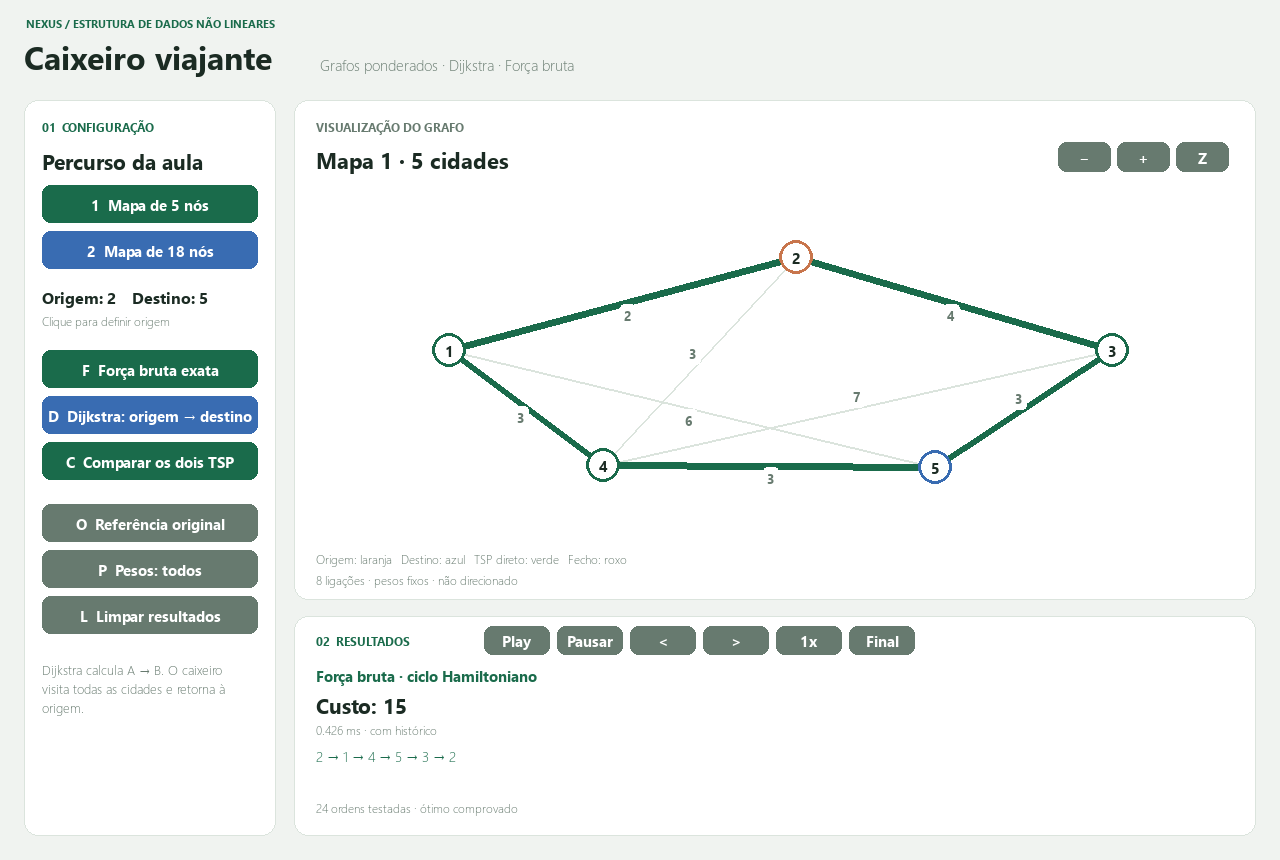
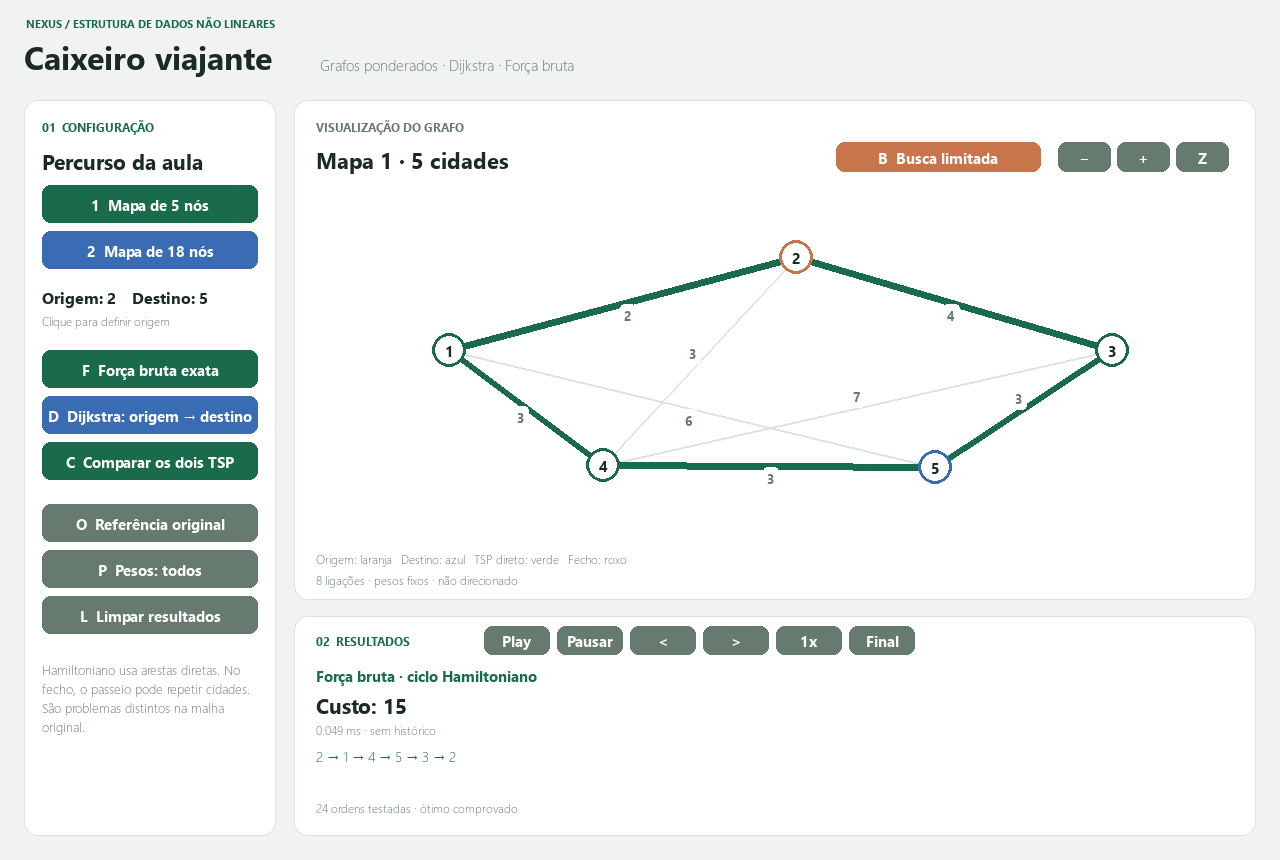
feat(TSP-020): limita branch-and-bound e explicita provas e pendência dos dados

Changed region(s): [[0.0312, 0.7558, 0.1875, 0.8465], [0.6562, 0.1512, 0.8125, 0.2116], [0.3125, 0.8465, 0.3438, 0.8767]]

diff --git a/caixeiro/tsp_ui.py b/caixeiro/tsp_ui.py
@@ -5,6 +5,7 @@ from time import perf_counter
 import pygame
 from tsp_core import carregar_mapa, dijkstra, tsp_forca_bruta, tsp_dijkstra, ErroGrafo, LimiteTSPError
 from reprodutor import Reprodutor
+from busca_limitada import tsp_branch_bound
 
 
 ROOT = Path(__file__).resolve().parent
@@ -17,7 +18,7 @@ GREEN = (26, 107, 75)
 BLUE = (57, 108, 178)
 ORANGE = (200, 117, 76)
 PURPLE = (128, 86, 166)
-CORES_METODOS = {"forca": GREEN, "dijkstra": BLUE, "fecho": PURPLE}
+CORES_METODOS = {"forca": GREEN, "dijkstra": BLUE, "fecho": PURPLE, "limitada": ORANGE}
 
 
 class Aplicacao:
@@ -86,7 +87,7 @@ class Aplicacao:
             return
         try:
             self.mapa.exigir_validado()
-            if metodo != "dijkstra" and len(self.mapa.nos) > 9:
+            if metodo not in ("dijkstra", "limitada") and len(self.mapa.nos) > 9:
                 raise LimiteTSPError("Busca didática limitada a 9 nós.")
         except ErroGrafo as erro:
             self.status = str(erro)
@@ -104,11 +105,14 @@ class Aplicacao:
                     funcao, args = dijkstra, (mapa, origem, destino)
                 elif nome == "forca":
                     funcao, args = tsp_forca_bruta, (mapa, origem)
+                elif nome == "limitada":
+                    funcao, args = tsp_branch_bound, (mapa, origem)
                 else:
                     funcao, args = tsp_dijkstra, (mapa, origem)
                 r = funcao(*args)
                 tempos[nome] = (perf_counter() - inicio) * 1000
-                funcao(*args, eventos=eventos)
+                if nome != "limitada":
+                    funcao(*args, eventos=eventos)
                 resultados[nome] = r
             return resultados, tempos, eventos
 
@@ -224,6 +228,7 @@ class Aplicacao:
         self.painel(self.mapa_rect)
         self.texto("VISUALIZAÇÃO DO GRAFO", (self.mapa_rect.x + 22, 119), 12, MUTED, True)
         self.texto(f"Mapa {self.indice_mapa + 1} · {len(self.mapa.nos)} cidades", (self.mapa_rect.x + 22, 145), 22, INK, True)
+        self.botao("limitada", "B  Busca limitada", (self.mapa_rect.right - 420, 142, 205, 30), ORANGE, self.futuro is None)
         for i, (chave, titulo) in enumerate((("zoom_menos", "−"), ("zoom_mais", "+"), ("reset", "Z"))):
             self.botao(chave, titulo, (self.mapa_rect.right - 198 + i * 59, 142, 53, 30), MUTED)
         clip_anterior = self.tela.get_clip()
@@ -307,7 +312,7 @@ class Aplicacao:
             self.linhas(self.status, (x + 22, y + 55), self.resultados_rect.w - 44, 15, max_linhas=6)
             return
         largura = (self.resultados_rect.w - 56) // max(1, len(self.resultados))
-        titulos = {"forca": "Força bruta · ciclo Hamiltoniano", "dijkstra": "Dijkstra · caminho A → B",
+        titulos = {"forca": "Força bruta · ciclo Hamiltoniano", "dijkstra": "Dijkstra · caminho A → B", "limitada": "Branch-and-bound · até 18 nós",
                    "fecho": "Dijkstra + TSP · passeio fechado"}
         for indice, (nome, resultado) in enumerate(self.resultados.items()):
             cx = x + 22 + indice * (largura + 12)
@@ -320,6 +325,8 @@ class Aplicacao:
             self.linhas(rota, (cx, y + 130), largura, 14, cor, max_linhas=2)
             if hasattr(resultado, "estados_testados"):
                 self.texto(f"{resultado.estados_testados} ordens testadas · ótimo comprovado", (cx, y + 184), 12, MUTED)
+            elif hasattr(resultado, "estado"):
+                self.texto(f"{resultado.nos_expandidos} estados · {resultado.estado}", (cx, y + 184), 12, MUTED)
 
     def desenhar(self):
         self.botoes.clear()
@@ -340,7 +347,7 @@ class Aplicacao:
             self.layout()
         elif evento.type == pygame.KEYDOWN:
             atalhos = {pygame.K_1: "mapa1", pygame.K_2: "mapa2", pygame.K_o: "original", pygame.K_p: "pesos",
-                       pygame.K_f: "forca", pygame.K_d: "dijkstra", pygame.K_c: "comparar", pygame.K_l: "limpar", pygame.K_z: "reset"}
+                       pygame.K_f: "forca", pygame.K_d: "dijkstra", pygame.K_c: "comparar", pygame.K_l: "limpar", pygame.K_z: "reset", pygame.K_b: "limitada"}
             if evento.key in atalhos:
                 self.acao(atalhos[evento.key])
         elif evento.type == pygame.MOUSEBUTTONDOWN and evento.button == 1:
@@ -380,7 +387,7 @@ class Aplicacao:
         elif chave == "reset":
             self.zoom = 1
             self.pan.update(0, 0)
-        elif chave in ("forca", "dijkstra", "comparar"):
+        elif chave in ("forca", "dijkstra", "comparar", "limitada"):
             self.iniciar(chave)
         elif chave == "limpar":
             self.limpar()

diff --git a/caixeiro/busca_limitada.py b/caixeiro/busca_limitada.py
@@ -1,0 +1,89 @@
+"""TSP Hamiltoniano com branch-and-bound e orçamento explícito de execução."""
+from dataclasses import dataclass
+from functools import lru_cache
+import math
+from time import perf_counter
+from tsp_core import Peso, _validar_tsp
+
+
+@dataclass(frozen=True, slots=True)
+class ResultadoBusca:
+    caminho: tuple[int, ...]
+    custo: Peso
+    nos_expandidos: int
+    otimo: bool
+    estado: str
+    tempo_ms: float
+
+    @property
+    def ordem(self):
+        return self.caminho
+
+
+def tsp_branch_bound(grafo, origem, *, limite_segundos=2.0, max_estados=200_000):
+    """Máximo 18 nós. Nunca chama o enumerador de permutações.
+
+    Limite inferior: MST dos não visitados mais uma ligação de cada ponta.
+    É admissível porque toda conclusão contém um caminho entre os restantes
+    e precisa conectar a ponta atual e a origem. Poda não elimina um ótimo.
+    Tempo/estados limitam trabalho, sem declarar ótimo se houver corte.
+    """
+    _validar_tsp(grafo, origem, limite=18)
+    if type(max_estados) is not int or max_estados < 1:
+        raise ValueError("max_estados deve ser inteiro positivo")
+    if type(limite_segundos) not in (float, int) or not math.isfinite(limite_segundos) or limite_segundos <= 0:
+        raise ValueError("limite_segundos deve ser finito e positivo")
+    inicio = perf_counter()
+    prazo = inicio + limite_segundos
+    adj = grafo.adjacencia()
+    ids = frozenset(grafo.ids)
+    melhor, melhor_custo = (), math.inf
+    estados, cortado = 0, False
+
+    @lru_cache(maxsize=8192)
+    def mst(restantes):
+        if len(restantes) < 2:
+            return 0
+        dentro = {restantes[0]}
+        fora = set(restantes[1:])
+        total = 0
+        while fora:
+            escolhas = ((adj[a][b], b) for a in dentro for b in fora if b in adj[a])
+            peso, proximo = min(escolhas, default=(math.inf, None))
+            if proximo is None:
+                return math.inf
+            total += peso
+            dentro.add(proximo)
+            fora.remove(proximo)
+        return total
+
+    def visitar(rota, usados, custo):
+        nonlocal melhor, melhor_custo, estados, cortado
+        if cortado:
+            return
+        if estados >= max_estados or perf_counter() >= prazo:
+            cortado = True
+            return
+        estados += 1
+        atual = rota[-1]
+        restantes = ids - usados
+        if not restantes:
+            if len(ids) == 1:
+                melhor, melhor_custo = rota, 0
+            elif origem in adj[atual] and custo + adj[atual][origem] < melhor_custo:
+                melhor, melhor_custo = (*rota, origem), custo + adj[atual][origem]
+            return
+        entrada = min((adj[atual][i] for i in restantes if i in adj[atual]), default=math.inf)
+        saida = min((adj[origem][i] for i in restantes if i in adj[origem]), default=math.inf)
+        inferior = custo + entrada + saida + mst(tuple(sorted(restantes)))
+        if inferior >= melhor_custo:
+            return
+        for proximo in sorted((i for i in restantes if i in adj[atual]), key=lambda i: (adj[atual][i], i)):
+            visitar((*rota, proximo), usados | {proximo}, custo + adj[atual][proximo])
+            if cortado:
+                return
+
+    visitar((origem,), frozenset({origem}), 0)
+    estado = ("melhor_conhecida" if melhor else "limite_sem_solucao") if cortado else (
+        "otimo_comprovado" if melhor else "sem_ciclo_comprovado")
+    return ResultadoBusca(melhor, melhor_custo, estados, not cortado, estado, (perf_counter() - inicio) * 1000)

diff --git a/caixeiro/tests/test_busca_limitada.py b/caixeiro/tests/test_busca_limitada.py
@@ -1,0 +1,54 @@
+import math
+from pathlib import Path
+import unittest
+from test_tsp import exemplo
+from busca_limitada import tsp_branch_bound
+from tsp_core import carregar_mapa, tsp_forca_bruta, MapaNaoValidadoError
+
+
+class BuscaLimitadaTests(unittest.TestCase):
+    def test_concorda_com_forca_bruta_em_todas_as_origens(self):
+        mapa = carregar_mapa(Path(__file__).resolve().parents[1] / "data/mapa_05.json")
+        for origem in mapa.ids:
+            r = tsp_branch_bound(mapa, origem)
+            self.assertEqual(r.custo, tsp_forca_bruta(mapa, origem).custo)
+            self.assertTrue(r.otimo)
+            self.assertEqual(r.estado, "otimo_comprovado")
+
+    def test_instancia_sintetica_de_18_nos_termina_com_prova(self):
+        # Instância de teste, não é o mapa da aula nem substitui seu peso ausente.
+        grafo = exemplo(range(1, 19), [(i, i + 1, 1) for i in range(1, 18)] + [(18, 1, 1)])
+        r = tsp_branch_bound(grafo, 1, limite_segundos=1, max_estados=1000)
+        self.assertEqual(r.custo, 18)
+        self.assertTrue(r.otimo)
+        self.assertLess(r.nos_expandidos, 1000)
+
+    def test_orcamento_nao_declara_inexistencia_ou_otimo(self):
+        grafo = exemplo(range(1, 19), [(i, i + 1, 1) for i in range(1, 18)] + [(18, 1, 1)])
+        r = tsp_branch_bound(grafo, 1, max_estados=1)
+        self.assertFalse(r.otimo)
+        self.assertEqual(r.estado, "limite_sem_solucao")
+        r = tsp_branch_bound(grafo, 1, max_estados=18)
+        self.assertEqual(r.custo, 18)
+        self.assertFalse(r.otimo)
+        self.assertEqual(r.estado, "melhor_conhecida")
+
+    def test_prova_de_ausencia_e_cidade_unica(self):
+        r = tsp_branch_bound(exemplo((1, 2, 3), ((1, 2, 1),)), 1)
+        self.assertEqual(r.estado, "sem_ciclo_comprovado")
+        self.assertEqual(r.custo, math.inf)
+        self.assertTrue(r.otimo)
+        self.assertEqual(tsp_branch_bound(exemplo((7,), ()), 7).custo, 0)
+
+    def test_mapa_real_18_continua_bloqueado(self):
+        mapa = carregar_mapa(Path(__file__).resolve().parents[1] / "data/mapa_18.json")
+        with self.assertRaises(MapaNaoValidadoError):
+            tsp_branch_bound(mapa, 1)
+
+    def test_limites_invalidos(self):
+        grafo = exemplo((1,), ())
+        for limite in (0, -1, True, math.inf):
+            with self.assertRaises(ValueError):
+                tsp_branch_bound(grafo, 1, limite_segundos=limite)
+        with self.assertRaises(ValueError):
+            tsp_branch_bound(grafo, 1, max_estados=True)

diff --git a/caixeiro/scripts/smoke_pygame.py b/caixeiro/scripts/smoke_pygame.py
@@ -70,6 +70,10 @@ def main():
         aguardar()
         assert app.resultados["forca"].custo == 15
         registrar("Força bruta por botão: custo 15", "forca_bruta.png")
+        clicar("limitada")
+        aguardar()
+        assert app.resultados["limitada"].custo == 15 and app.resultados["limitada"].otimo
+        registrar("Busca limitada por botão: ótimo comprovado 15", "busca_limitada.png")
         tecla(pygame.K_1)
         tecla(pygame.K_c)
         aguardar()

diff --git a/caixeiro/tests/test_ui.py b/caixeiro/tests/test_ui.py
@@ -60,6 +60,10 @@ class InterfaceTests(unittest.TestCase):
         a.acao("reproduzir")
         a.atualizar(1)
         self.assertIsNotNone(a.player.passo)
+        a.acao("limitada")
+        a.futuro.result(timeout=10)
+        a.atualizar(0)
+        self.assertEqual(a.resultados["limitada"].estado, "otimo_comprovado")
         a.acao("mapa2")
         self.assertEqual(a.historico, [])
         a.acao("dijkstra")

diff --git a/caixeiro/docs/estrategia_18.md b/caixeiro/docs/estrategia_18.md
@@ -1,0 +1,28 @@
+# TSP-020 — Busca segura até 18 nós
+
+Foi implementado `tsp_branch_bound()` em `busca_limitada.py`, acessível pelo botão **B Busca limitada**. Resolve o TSP Hamiltoniano sobre as ligações existentes. Dijkstra A→B continua disponível em qualquer mapa validado, independentemente do limite didático de 9 nós dos enumeradores.
+
+## Escolha e limites
+
+Branch-and-bound foi escolhido por aproveitar a malha esparsa sem instalar um solver externo. Ordena vizinhos por custo e usa limite inferior admissível: árvore geradora mínima dos vértices restantes mais as ligações mínimas das duas pontas do percurso. Uma conclusão necessariamente contém essas conexões e uma árvore entre os restantes; portanto essa poda não descarta uma solução melhor.
+
+Orçamento padrão: **2 segundos ou 200 mil estados**, o que ocorrer primeiro. Cache de árvores limitado a 8192 subconjuntos; profundidade máxima de 18 cidades. Verifica o orçamento a cada expansão; há pequeno custo adicional para terminar a expansão em curso. Não há garantia polinomial: em instâncias difíceis o algoritmo pode terminar sem achar uma rota, e isso não prova inexistência.
+
+O resultado informa explicitamente:
+
+| Estado | Interpretação |
+|---|---|
+| `otimo_comprovado` | Busca esgotada/podada com solução; ótimo provado |
+| `sem_ciclo_comprovado` | Busca esgotada sem ciclo Hamiltoniano |
+| `melhor_conhecida` | Limite atingido com rota viável; ótimo não provado |
+| `limite_sem_solucao` | Limite atingido sem rota encontrada; não prova inexistência |
+
+Os estados expandidos não são permutações completas; a interface os identifica separadamente. O solver roda no worker e não bloqueia o loop Pygame.
+
+## Validação executada e limitação real
+
+Os testes comparam o resultado ao enumerador exato em todas as origens do mapa 5. Uma instância **sintética** de 18 nós em anel é resolvida com custo 18 e prova de ótimo dentro do orçamento. Também são testados cortes com/sem solução e ausência comprovada de ciclo.
+
+**A TSP-020 continua parcialmente pendente quanto ao mapa real de 18 nós.** Não é possível medir sua solução sem o custo de 9–14. O usuário confirmou que essa ligação não tem peso informado. Ela permanece com `null`; não foi removida, tratada como zero ou completada por distância visual. O solver recusa esse mapa antes de pesquisar. Os resultados sintéticos não são apresentados como resultados do mapa da aula.
+
+Quando houver definição acadêmica do custo e a TSP-004 for concluída, executar `tsp_branch_bound(carregar_mapa('data/mapa_18.json'), 1)` e registrar custo, tempo, estados e classificação antes de fechar o aceite da TSP-020. Força bruta ingênua permanece limitada a 9 nós.

diff --git a/caixeiro/docs/smoke_pygame.md b/caixeiro/docs/smoke_pygame.md
@@ -8,13 +8,14 @@ Ambiente: Windows, Python 3.14, pygame-ce 2.5.8 / SDL 2.32.10. Requisitos instal
 .venv\Scripts\python.exe -B scripts\smoke_pygame.py
 ```
 
-**11 casos passaram**, via eventos Pygame/SDL dummy. O resultado está em [smoke_resultados.json](smoke_resultados.json). As capturas são da superfície renderizada do aplicativo, sem captura de outros programas. Foram inspecionadas visualmente as telas de comparação, animação e janela mínima.
+**12 casos passaram**, via eventos Pygame/SDL dummy, incluindo a busca limitada acrescentada na TSP-020. O resultado está em [smoke_resultados.json](smoke_resultados.json). As capturas são da superfície renderizada do aplicativo, sem captura de outros programas. Foram inspecionadas visualmente as telas de comparação, animação e janela mínima.
 
 | Caso executado | Resultado |
 |---|---|
 | Dijkstra pelo botão | Caminho 1–2–3, custo 6 |
 | Clique nos nós | Origem 2 e destino 5 selecionados alternadamente |
 | Força bruta pelo botão | Custo 15 |
+| Busca limitada pelo botão B | Custo 15, ótimo comprovado no mapa 5 |
 | Comparação pela tecla C | Dois TSP com custo 15 |
 | Play, pausar, avançar, voltar, velocidade e final | Índice do histórico muda e pausa; retorno ao resultado final |
 | Referência do mapa 5 | Imagem original carregada |

diff --git a/caixeiro/TASKS.md b/caixeiro/TASKS.md
@@ -135,6 +135,7 @@
   - Dijkstra em pares funciona após validação; **não** executar força bruta ingênua de 18 nós.
   - Selecionar busca melhorada (Held–Karp, branch-and-bound ou OR-Tools) com justificativa.
   - **Aceite:** algoritmo para o mapa 18 termina dentro de um limite razoável e identifica se a solução é ótima comprovada ou apenas conhecida.
+  - **Avanço parcial:** branch-and-bound implementado com limite de 2 s/200 mil estados e estados de prova explícitos, integrado ao botão B. Testes cobrem anel sintético de 18 nós e cortes com/sem solução. O mapa real permanece recusado por faltar o peso de 9–14 (ausência confirmada pelo usuário). Estratégia em `docs/estrategia_18.md`; aceite de execução no mapa real depende da TSP-004.
 
 - [ ] **TSP-021 — Elaborar relatório e demonstração da aula** · `P2 / Medium` · depende de TSP-017 a TSP-020
   - Explicar grafos incompletos, pesos, Dijkstra, força bruta, complexidade e resultados.
